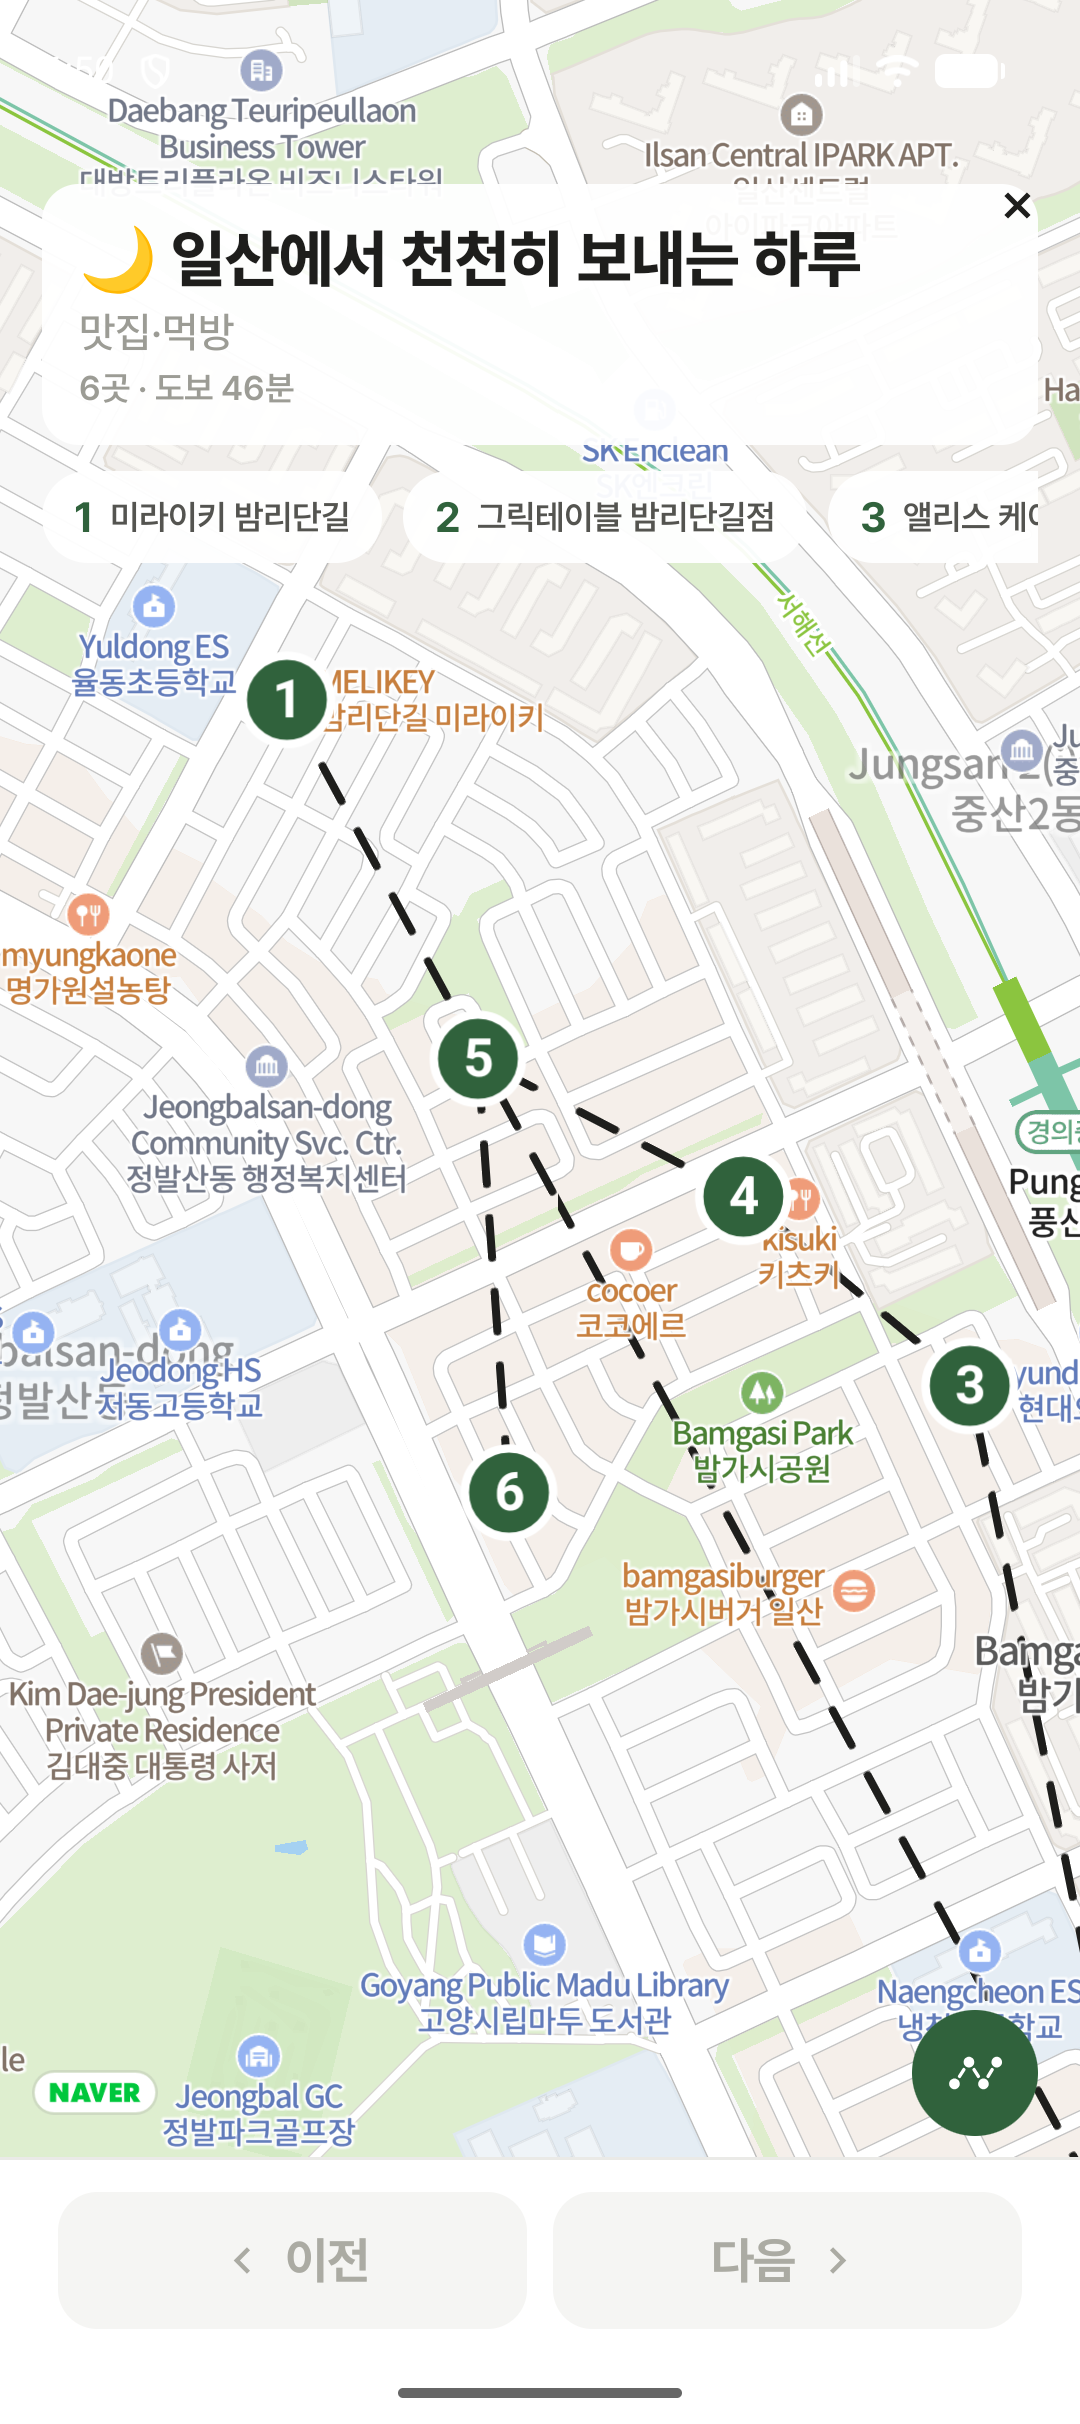
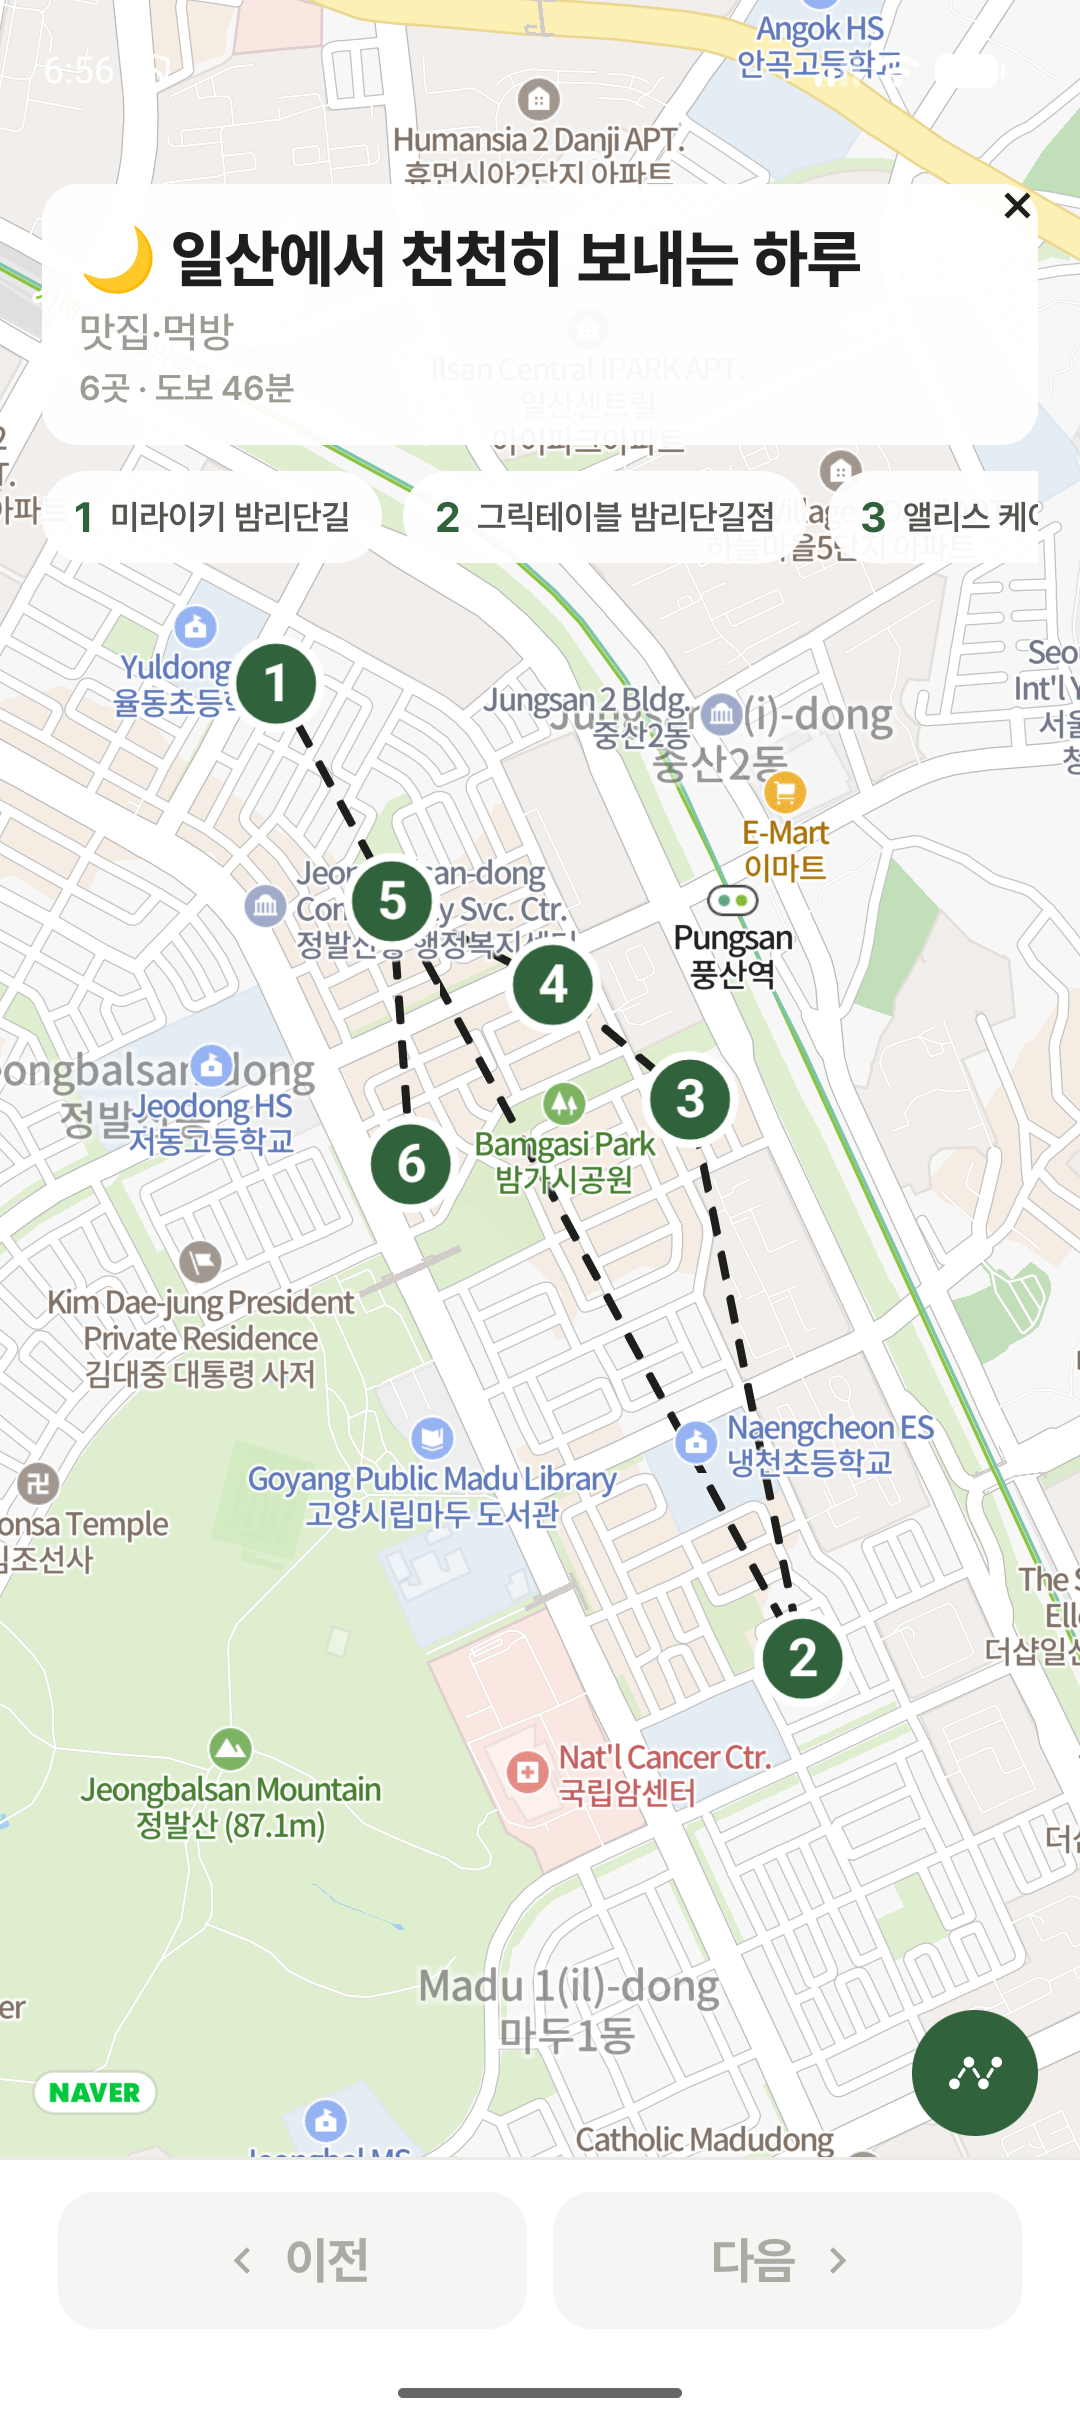
docs: refresh verified course map screenshots

diff --git a/docs/ui/2026-10-21-flow-update/README.md b/docs/ui/2026-10-21-flow-update/README.md
@@ -2,7 +2,7 @@
 
 실제 에뮬레이터 APK 화면. 공개 코스 ID1과 courmy 프로필, 성수동 검색을 읽어 확인했다. 서버 후기/신고/저장 POST는 수행하지 않았다.
 
-- 통합 브랜치 fix/SCRUM-624-flow-integration. 최초 캡처 d5836a5, 최종 신고 폼·지도 전체보기는9a6be80 빌드에서 다시 캡처.
+- 통합 브랜치 fix/SCRUM-624-flow-integration. 최초 캡처 d5836a5, 신고 폼은 9a6be80, 최종 지도 전체보기·장소 패널은 315642c 빌드에서 다시 캡처.
 - course-detail: 좋아요·저장 상단 아이콘, 신고 더보기.
 - report: 신고 폼, 미제출 상태.
 - place-detail/place-review: 실제 장소 상세·카페 키워드 후기 입력, 미제출 상태.
